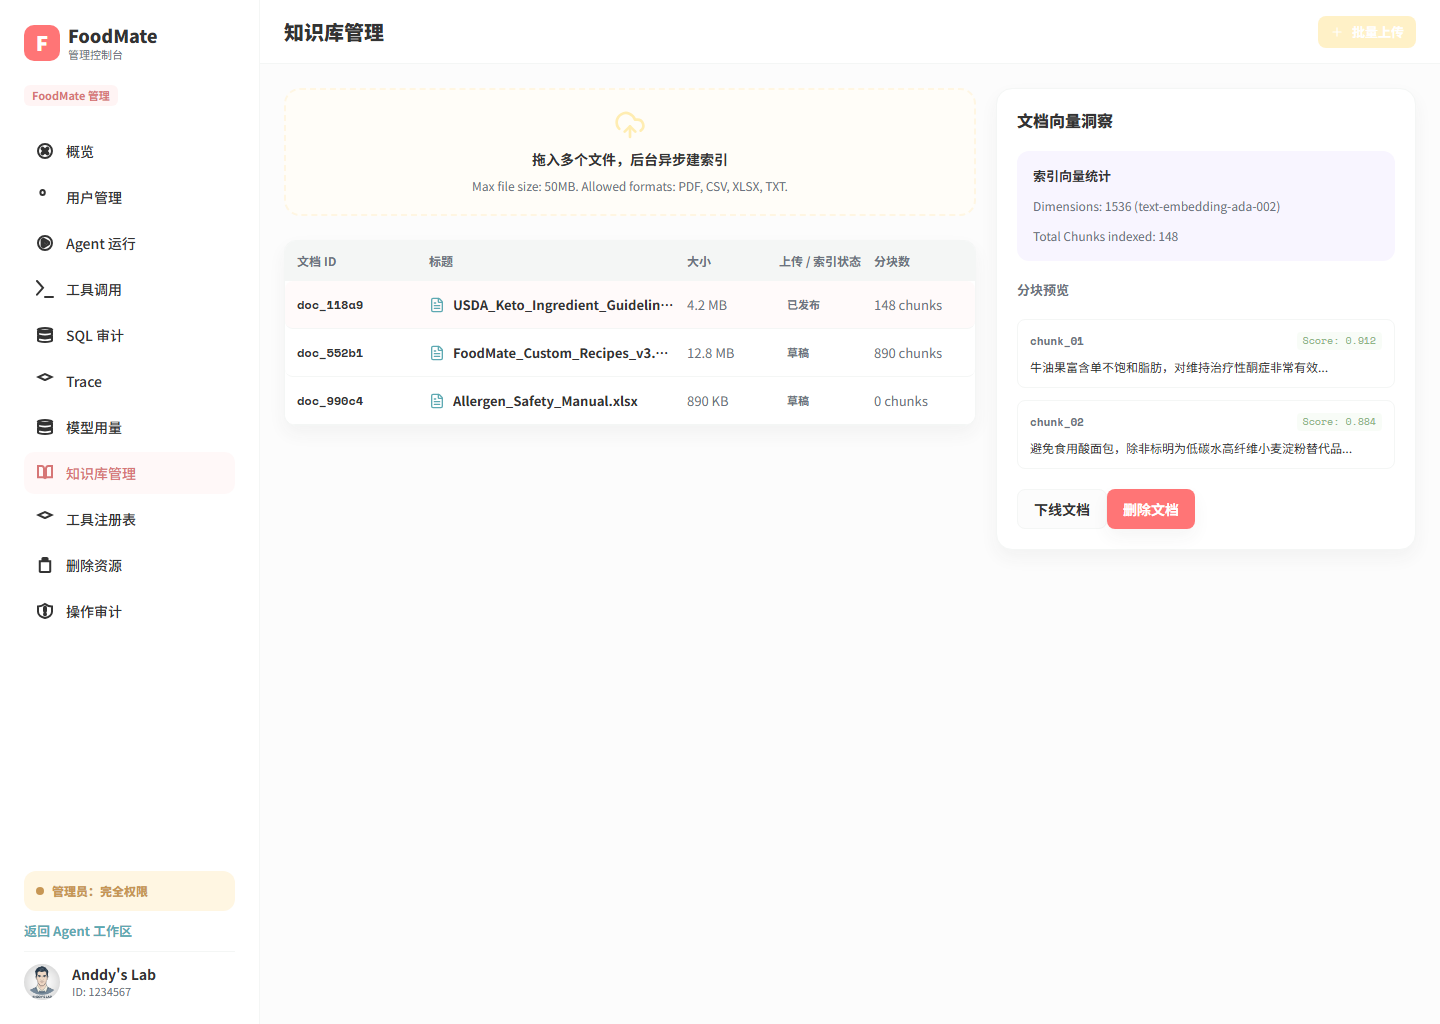
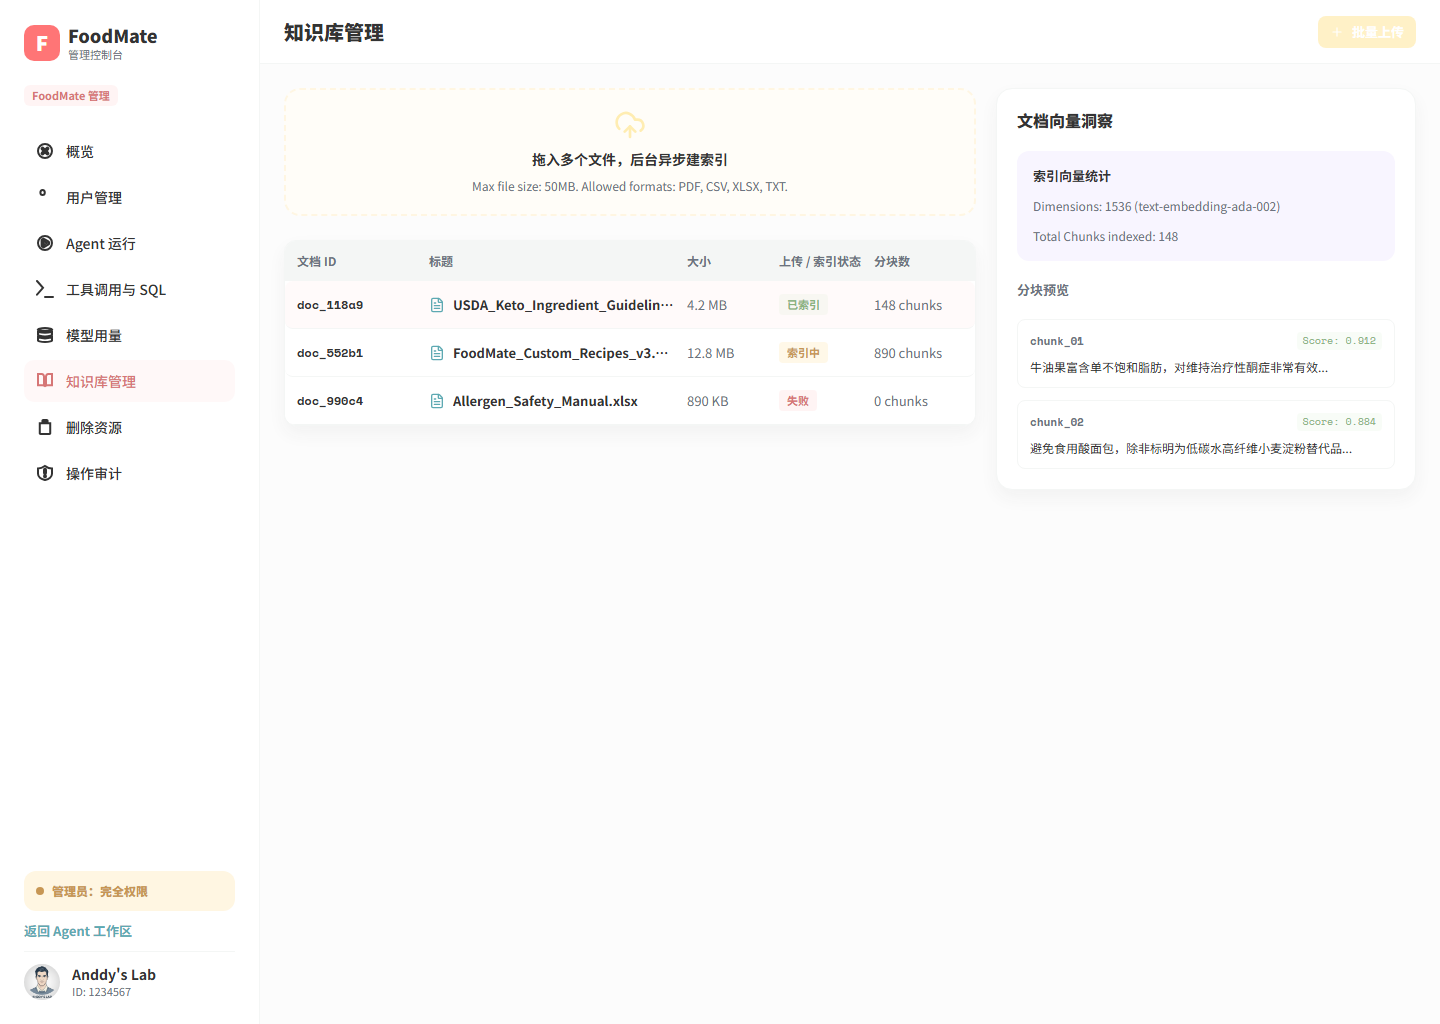
feat(admin): 收口知识库状态视觉

diff --git a/foodmate-ui/src/pages/AdminPage/AdminPage.tsx b/foodmate-ui/src/pages/AdminPage/AdminPage.tsx
@@ -61,6 +61,17 @@ type AdminFixtureState =
 
 type KnowledgeFixtureState = Extract<AdminFixtureState, `knowledge-${string}`>;
 
+const knowledgeFixtureNavKeys = new Set([
+  'overview',
+  'users',
+  'runs',
+  'tools',
+  'usage',
+  'knowledge',
+  'deleted',
+  'audit',
+]);
+
 type KnowledgeFixtureCopy = {
   title: string;
   summary: string;
@@ -521,10 +532,9 @@ function AdminKnowledgeFixture({ state, onDismiss }: { state: KnowledgeFixtureSt
           <h2 id={titleId}>{copy.title}</h2>
           {copy.showFailureBadge ? (
             <div className={styles.knowledgeFixtureHeaderActions}>
-              <span className={styles.knowledgeFixtureFailureBadge}>失败</span>
               <Button
                 aria-label="关闭"
-                className={styles.knowledgeFixtureClose}
+                className={`${styles.knowledgeFixtureClose} ${styles.knowledgeFixtureCloseHidden}`}
                 onClick={onDismiss}
                 size="icon"
                 type="button"
@@ -805,7 +815,8 @@ export function AdminPage() {
   const activeOperationAction = fixtureOperationStatus ? figmaOperationAction : pendingAction;
   const activeOperationError = fixtureOperationStatus === 'failed' ? defaultOperationError : operationError;
   const isKnowledgeFixture = Boolean(requestedFixture && isKnowledgeFixtureState(requestedFixture));
-  const dismissFixture = () => navigate('/admin?state=tool-registry', { replace: true });
+  const dismissFixture = () =>
+    navigate(isKnowledgeFixture ? '/admin/knowledge' : '/admin?state=tool-registry', { replace: true });
 
   useEffect(() => {
     const handleNotice = (event: Event) => {
@@ -913,7 +924,12 @@ export function AdminPage() {
           <span className={styles.adminTag}>FoodMate 管理</span>
         </div>
         <nav className={styles.adminNav} aria-label="管理后台导航">
-          {adminNavItems.map((item) => {
+          {(isKnowledgeFixture
+            ? adminNavItems
+                .filter((item) => knowledgeFixtureNavKeys.has(item.key))
+                .map((item) => (item.key === 'tools' ? { ...item, label: '工具调用与 SQL' } : item))
+            : adminNavItems
+          ).map((item) => {
             const isActive = fixtureNavKey
               ? item.key === fixtureNavKey
               : isAdminNavItemActive(item.path, pathname, search);
@@ -971,7 +987,7 @@ export function AdminPage() {
           onDismiss={fixtureOperationStatus ? dismissFixture : dismissOperation}
         />
         {requestedFixture && !requestedFixture.startsWith('op-') && !isDetailFixture ? (
-          <AdminFixtureOverlay state={requestedFixture} onDismiss={() => navigate('/admin', { replace: true })} />
+          <AdminFixtureOverlay state={requestedFixture} onDismiss={dismissFixture} />
         ) : null}
         <header className={`${styles.topbar} ${isKnowledgeFixture ? styles.knowledgeFixtureTopbar : ''}`}>
           <div className={styles.topbarTitle}>

diff --git a/foodmate-ui/src/pages/AdminPage/tabs/KnowledgeTab.tsx b/foodmate-ui/src/pages/AdminPage/tabs/KnowledgeTab.tsx
@@ -70,7 +70,15 @@ function documentSize(document: KnowledgeRow) {
   return document.chunks > 500 ? '12.8 MB' : document.chunks ? '4.2 MB' : '890 KB';
 }
 
-function documentStatus(document: KnowledgeRow) {
+function documentStatus(document: KnowledgeRow, figmaFixture: boolean) {
+  if (figmaFixture) {
+    const fixtureLabel = document.status === 'indexed' ? '已索引' : document.status === 'indexing' ? '索引中' : '失败';
+    return (
+      <span className={`${styles.knowledgeStatus} ${styles[`knowledgeStatus${document.status}`] ?? ''}`}>
+        {fixtureLabel}
+      </span>
+    );
+  }
   const visibility = document.visibility;
   const label =
     visibility === 'published'
@@ -293,7 +301,7 @@ export function KnowledgeSection({
                   <strong>{document.title}</strong>
                 </span>
                 <span>{isRealMode ? '-' : documentSize(document)}</span>
-                <span>{documentStatus(document)}</span>
+                <span>{documentStatus(document, figmaFixture)}</span>
                 <span>{document.chunks} chunks</span>
               </Button>
             ))
@@ -325,7 +333,7 @@ export function KnowledgeSection({
             <ChunkPreview id="chunk_02" score="0.884" text="避免食用酸面包，除非标明为低碳水高纤维小麦淀粉替代品..." />
           </div>
         )}
-        {selectedDoc ? (
+        {selectedDoc && !figmaFixture ? (
           <div className={styles.knowledgeManageActions}>
             {selectedVisibility === 'published' ? (
               <Button

diff --git a/foodmate-ui/src/pages/AdminPage/AdminPage.test.tsx b/foodmate-ui/src/pages/AdminPage/AdminPage.test.tsx
@@ -166,6 +166,20 @@ describe('AdminPage overview', () => {
     view.unmount();
   });
 
+  it('matches the Figma knowledge fixture navigation and default table state', () => {
+    renderAdmin('/admin?state=knowledge-upload-success');
+
+    expect(screen.getByRole('link', { name: '工具调用与 SQL' })).toBeInTheDocument();
+    expect(screen.queryByRole('link', { name: 'SQL 审计' })).not.toBeInTheDocument();
+    expect(screen.queryByRole('link', { name: 'Trace' })).not.toBeInTheDocument();
+    expect(screen.queryByRole('link', { name: '工具注册表' })).not.toBeInTheDocument();
+    expect(screen.getByText('已索引')).toBeInTheDocument();
+    expect(screen.getByText('索引中')).toBeInTheDocument();
+    expect(screen.getByText('失败')).toBeInTheDocument();
+    expect(screen.queryByRole('button', { name: '下线文档' })).not.toBeInTheDocument();
+    expect(screen.queryByRole('button', { name: '删除文档' })).not.toBeInTheDocument();
+  });
+
   it('uses the Figma user-detail close affordance and registered fixture avatar', () => {
     renderAdmin('/admin?state=user-detail');
 

diff --git a/foodmate-ui/src/pages/AdminPage/AdminPage.module.css b/foodmate-ui/src/pages/AdminPage/AdminPage.module.css
@@ -5151,6 +5151,19 @@
   color: #ed706c;
 }
 
+/* Figma 状态画板未展示关闭图标，但保留可访问的关闭操作供键盘用户使用。 */
+.knowledgeFixtureCloseHidden {
+  position: absolute;
+  width: 1px;
+  height: 1px;
+  margin: -1px;
+  overflow: hidden;
+  padding: 0;
+  border: 0;
+  clip: rect(0 0 0 0);
+  white-space: nowrap;
+}
+
 .knowledgeFixtureClose:hover {
   background: #fff0ee;
   color: #dc5a5c;

diff --git a/docxs/功能实现说明/前端已完成实现清单.md b/docxs/功能实现说明/前端已完成实现清单.md
@@ -4,7 +4,7 @@
 > 本文只记录真实代码、真实测试和实际浏览器检查结果，不把 Figma 目标稿、后端目标接口或未完成的全量迁移写成已完成。
 > “页面代码边界完成”表示该页面的代码、交互和本地验收已完成；不等同于真实后端接口、Figma 实际画板和整个 G 阶段全部完成。
 
-> 当前状态（2026-09-05）：页面代码和本地视觉/交互验收不等于完整生产完成。后端已实现 `food_logs` 明细创建/查询/编辑/删除/恢复、today/7d/30d 分析、60 条营养食材 seed 和 60 条官方 foodPortions 换算规则的 matched/pending 分支、餐食计划完整资源生命周期和 `meal_plan.save_plan` 确认；`food_log_writer` 的 create/update/delete/restore 及 rejected/failed/superseded、revision 冲突和幂等重放已通过真实 PostgreSQL HTTP/RocketMQ 各 11/11 跨进程回归。M2-1 公共知识库、M2-2 deterministic Tool/SQL 和 M2-3 管理核心切片已有业务证据；真实云服务、性能和故障矩阵仍后置。当前前端全量 Vitest 为 39/39 个测试文件、247/247 个用例通过，typecheck、build、lint 和 format:check 通过；Auth 页面已有提交 `bc72ae10`，Workspace/Home 与 Agent Chat 的当前视觉收口已完成代码边界，最新 Figma 证据仍保持 `DIFF_REVIEW`。不得把本清单的页面完成项改写为生产级完成。
+> 当前状态（2026-09-06）：页面代码和本地视觉/交互验收不等于完整生产完成。后端已实现 `food_logs` 明细创建/查询/编辑/删除/恢复、today/7d/30d 分析、60 条营养食材 seed 和 60 条官方 foodPortions 换算规则的 matched/pending 分支、餐食计划完整资源生命周期和 `meal_plan.save_plan` 确认；`food_log_writer` 的 create/update/delete/restore 及 rejected/failed/superseded、revision 冲突和幂等重放已通过真实 PostgreSQL HTTP/RocketMQ 各 11/11 跨进程回归。M2-1 公共知识库、M2-2 deterministic Tool/SQL 和 M2-3 管理核心切片已有业务证据；真实云服务、性能和故障矩阵仍后置。当前前端全量 Vitest 为 40/40 个测试文件、249/249 个用例通过，typecheck、build、lint 和 format:check 通过；Workspace/Home、Agent Chat 和 Admin 知识库状态页已完成当前批次视觉收口，最新 Figma 证据仍保持 `DIFF_REVIEW`。不得把本清单的页面完成项改写为生产级完成。
 
 ## 当前批次：Workspace/Home 与 Agent Chat Figma 资源收口（2026-09-06）
 
@@ -1970,8 +1970,9 @@
 - [x] AdminPage 为知识库 Figma fixture 增加独立页面边距、顶部“批量上传”入口和上传 Dialog 打开请求；真实模式的刷新、上传接口和权限边界保持不变。
 - [x] KnowledgeSection 增加 `figmaFixture` 边界：fixture 使用 Figma 的 `Max file size: 50MB. Allowed formats: PDF, CSV, XLSX, TXT.` 文案、上传区尺寸、表格行高、向量洞察背景和 Figma 资源视觉；真实模式仍使用原有 `20` 个文件、`20 MB`、`PDF/DOCX/Markdown/TXT` 校验。
 - [x] 6 项浏览器证据已由 Chrome `152.0.7977.77` 在 `1440×1024`、DPR `1`、字体 `loaded` 和无横向溢出条件下重新采集；映射、diff JSON 和截图路径已同步。
-- [x] 最新 diff：上传中 `29.8006% / MAE 1.914861 / RMSE 12.235797`；索引中 `30.5658% / MAE 2.049993 / RMSE 12.640506`；批次失败 `30.7477% / MAE 2.371708 / RMSE 14.130723`；上传成功 `37.2437% / MAE 3.862249 / RMSE 20.602687`；格式错误 `56.9717% / MAE 2.473476 / RMSE 12.808434`；大小错误 `56.9688% / MAE 2.484014 / RMSE 12.899585`。
-- [x] Admin 定向测试 `24/24` 通过；`npm run typecheck`、`npm run build`、`npm run lint`、`npm run format:check`、`npm run qa:figma:validate` 和 `git diff --check` 通过；Figma 结构校验保持 `structuralPass=true`、`strictDprPass=true`、`errors=[]`。
+- [x] 本批次进一步收口知识库 fixture：Figma 专用侧栏合并为 8 项、表格状态改为“已索引/索引中/失败”、隐藏 Figma 未展示的管理操作和错误徽章，同时保留可访问的关闭操作；状态关闭后返回知识库页面，真实模式路径不变。
+- [x] 最新 diff：上传中 `29.5154% / MAE 1.887562 / RMSE 12.209293`；索引中 `30.2598% / MAE 2.022699 / RMSE 12.614875`；批次失败 `30.4384% / MAE 2.327844 / RMSE 14.066926`；上传成功 `38.0500% / MAE 3.629768 / RMSE 19.628179`；格式错误 `57.4451% / MAE 2.482137 / RMSE 12.951715`；大小错误 `57.4422% / MAE 2.492672 / RMSE 13.041847`。
+- [x] Admin 定向测试 `28/28` 通过；`npm run typecheck`、`npm run build`、`npm run lint`、`npm run format:check`、`npm run qa:figma:validate` 和 `git diff --check` 通过；Figma 结构校验保持 `structuralPass=true`、`strictDprPass=true`、`errors=[]`。
 - [ ] 6 项仍存在字体光栅化、导航图标、头像和局部内容差异，继续保持 `DIFF_REVIEW`；全量聚合仍为 `105 DIFF_REVIEW / 0 PASS / 0 UNMAPPED / 0 SIZE_MISMATCH`，不能宣称像素级 `PASS`。
 - [ ] iconfont 实体包、CSS/Unicode 映射、来源和许可证仍缺失，继续保持 `BLOCKED`。
 

diff --git a/docxs/功能实现说明/Figma前端像素级验收报告.md b/docxs/功能实现说明/Figma前端像素级验收报告.md
@@ -2194,14 +2194,15 @@ Figma Design 页共有 105 张顶层画板。本轮已为 105 张画板建立独
 
 | 画板 | Figma 节点 | 前端入口 | 浏览器 PNG | 视口 / DPR | 差异比例 | MAE | RMSE | 最大通道差异 | 结论 |
 |---|---|---|---|---|---:|---:|---:|---:|---|
-| Admin Knowledge Uploading | `782:212` | `/admin?state=knowledge-uploading` | `dpr1-admin-knowledge-uploading-browser-2026-09-06.png` | `1440×1024 / 1` | 29.8006% | 1.914861 | 12.235797 | 250 | `DIFF_REVIEW` |
-| Admin Knowledge Indexing | `782:366` | `/admin?state=knowledge-indexing` | `dpr1-admin-knowledge-indexing-browser-2026-09-06.png` | `1440×1024 / 1` | 30.5658% | 2.049993 | 12.640506 | 250 | `DIFF_REVIEW` |
-| Admin Knowledge Upload Failed | `782:520` | `/admin?state=knowledge-upload-failed` | `dpr1-admin-knowledge-upload-failed-browser-2026-09-06.png` | `1440×1024 / 1` | 30.7477% | 2.371708 | 14.130723 | 250 | `DIFF_REVIEW` |
-| Admin Knowledge Upload Success | `806:1737` | `/admin?state=knowledge-upload-success` | `dpr1-admin-knowledge-upload-success-browser-2026-09-06.png` | `1440×1024 / 1` | 37.2437% | 3.862249 | 20.602687 | 242 | `DIFF_REVIEW` |
-| Admin Knowledge Format Error | `997:2` | `/admin?state=knowledge-format-error` | `dpr1-admin-knowledge-format-error-browser-2026-09-06.png` | `1440×1024 / 1` | 56.9717% | 2.473476 | 12.808434 | 204 | `DIFF_REVIEW` |
-| Admin Knowledge Size Error | `997:160` | `/admin?state=knowledge-size-error` | `dpr1-admin-knowledge-size-error-browser-2026-09-06.png` | `1440×1024 / 1` | 56.9688% | 2.484014 | 12.899585 | 204 | `DIFF_REVIEW` |
+| Admin Knowledge Uploading | `782:212` | `/admin?state=knowledge-uploading` | `dpr1-admin-knowledge-uploading-browser-2026-09-06.png` | `1440×1024 / 1` | 29.5154% | 1.887562 | 12.209293 | 250 | `DIFF_REVIEW` |
+| Admin Knowledge Indexing | `782:366` | `/admin?state=knowledge-indexing` | `dpr1-admin-knowledge-indexing-browser-2026-09-06.png` | `1440×1024 / 1` | 30.2598% | 2.022699 | 12.614875 | 250 | `DIFF_REVIEW` |
+| Admin Knowledge Upload Failed | `782:520` | `/admin?state=knowledge-upload-failed` | `dpr1-admin-knowledge-upload-failed-browser-2026-09-06.png` | `1440×1024 / 1` | 30.4384% | 2.327844 | 14.066926 | 250 | `DIFF_REVIEW` |
+| Admin Knowledge Upload Success | `806:1737` | `/admin?state=knowledge-upload-success` | `dpr1-admin-knowledge-upload-success-browser-2026-09-06.png` | `1440×1024 / 1` | 38.0500% | 3.629768 | 19.628179 | 242 | `DIFF_REVIEW` |
+| Admin Knowledge Format Error | `997:2` | `/admin?state=knowledge-format-error` | `dpr1-admin-knowledge-format-error-browser-2026-09-06.png` | `1440×1024 / 1` | 57.4451% | 2.482137 | 12.951715 | 204 | `DIFF_REVIEW` |
+| Admin Knowledge Size Error | `997:160` | `/admin?state=knowledge-size-error` | `dpr1-admin-knowledge-size-error-browser-2026-09-06.png` | `1440×1024 / 1` | 57.4422% | 2.492672 | 13.041847 | 204 | `DIFF_REVIEW` |
 
 - [x] Figma fixture 已按节点复核并保留六个独立入口；fixture 模式采用 Figma 的页面内边距、上传区尺寸、表格行高、向量洞察区域、状态弹层和顶部“批量上传”入口。
+- [x] 本批次进一步收口知识库 fixture 专属侧栏为 8 项、表格处理状态文案、洞察卡管理操作和错误弹层视觉层；错误状态仍保留键盘可访问的关闭操作，关闭后返回知识库页面。
 - [x] 顶部“批量上传”入口与页面上传区域共用现有知识库上传 Dialog；真实模式仍保留原有文件数量、大小、格式约束和服务请求逻辑。
 - [x] 六项浏览器证据由 Chrome `152.0.7977.77` 在 `1440×1024`、DPR `1`、字体 `loaded` 和无横向溢出条件下采集；截图、映射和 `figma-105-diff-results.json` 已同步到 `2026-09-06` 证据路径。
 - [x] Admin 定向测试、`npm run typecheck`、`npm run build`、`npm run lint`、`npm run format:check`、`npm run qa:figma:validate` 和 `git diff --check` 已在本批次代码完成后通过；结构校验为 `structuralPass=true`、`strictDprPass=true`、`errors=[]`。
